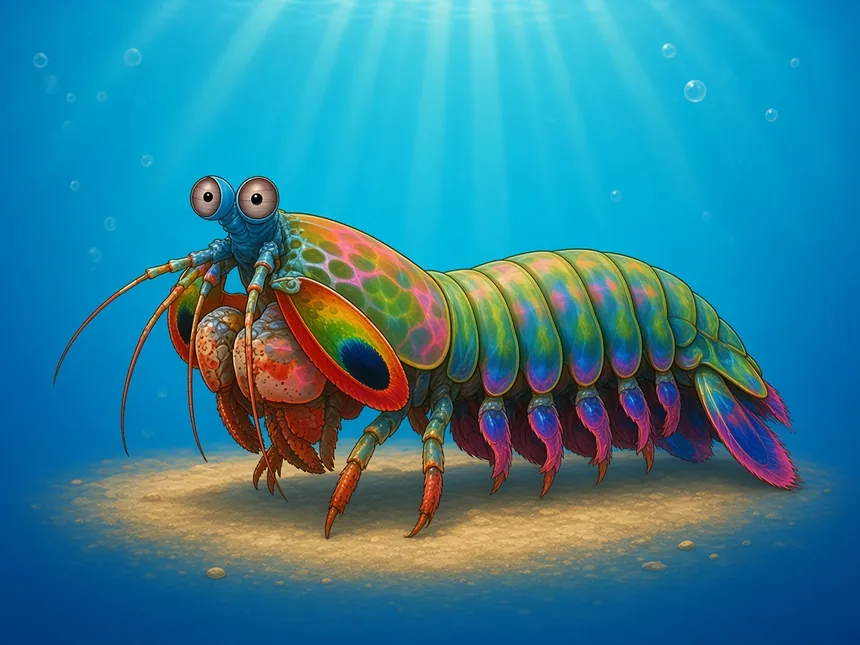
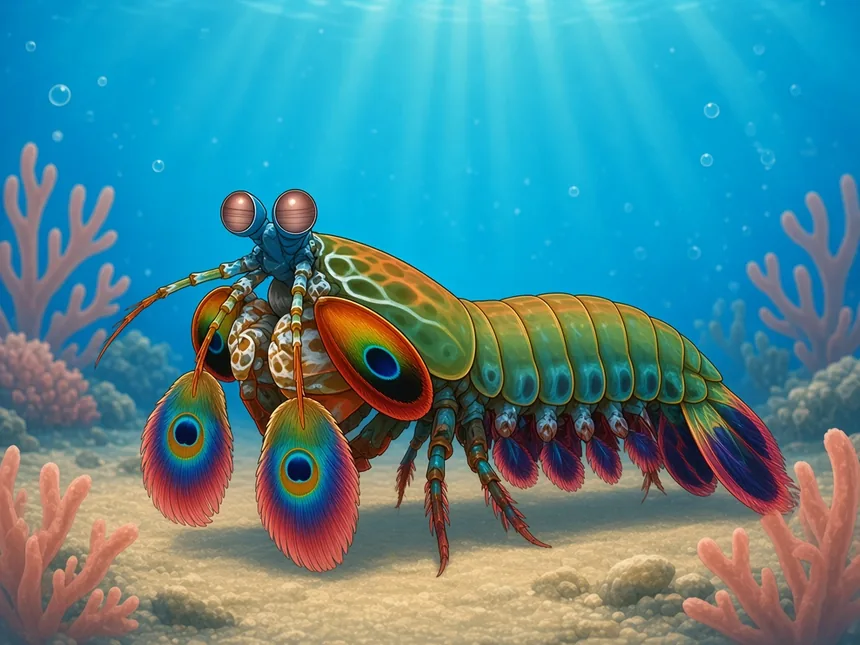
Fix orca/dolphin side orientation and differentiate shrimp anatomy (#10)
Put orca and dolphin back in left-facing side profile with edge-on
horizontal flukes. Regenerate the four shrimp so they differ by body
plan: slender tiny-claw cleaner, one-giant-claw pistol, stalked-eye
mantis smashers, and big banded-claw coral shrimp.

diff --git a/marine/ART_PROMPTS.md b/marine/ART_PROMPTS.md
@@ -34,10 +34,10 @@ flukes, never a vertical shark tail.
 - **ribbon-eel.webp** — An adult male ribbon eel ONLY: slender bright blue eel body with a vivid yellow dorsal fin ribbon and yellow leaf-like flared nostrils, open mouth, long ribbon-like undulating eel body tapering to a pointed finned tip, NO shark tail, facing left.
 - **garden-eel.webp** — A spotted garden eel ONLY emerging vertically from sandy seabed, skinny pale eel body with dark spots, tiny head and eyes peeking up, lower body in a sand burrow, NO shark fins or shark tail.
 - **snowflake-eel.webp** — A snowflake moray eel ONLY: white eel body covered in bold black snowflake blotches, blunt head, open mouth, serpentine eel body with continuous soft fin edge, NO shark caudal fin, facing left.
-- **cleaner-shrimp.webp** — An Ambon cleaner shrimp ONLY: crustacean with translucent body, bold red longitudinal stripes and white bands, long white antennae, slender walking legs, flattened shrimp tail fan (uropods) held horizontally behind the abdomen, NO shark fin, NO vertical shark tail.
-- **peacock-mantis.webp** — A peacock mantis shrimp ONLY: vivid rainbow crustacean carapace, large stalked eyes, folded smasher clubs, short segmented shrimp body ending in a flat horizontal tail fan, standing on sandy bottom facing left, NO shark fins or shark tail.
-- **pistol-shrimp.webp** — A bigclaw snapping shrimp ONLY: tan translucent shrimp crustacean, one enormously oversized snapping claw and one small claw, stalked eyes, segmented abdomen ending in a flat shrimp tail fan, NO shark fin, NO vertical shark tail, facing left.
-- **banded-coral-shrimp.webp** — A banded coral shrimp ONLY: red-and-white banded shrimp body and legs, very long white antennae, large claws, flat horizontal shrimp tail fan, among a hint of reef rock, NO shark fins or shark tail, facing left.
+- **cleaner-shrimp.webp** — An Ambon cleaner shrimp (Lysmata) facing left: SLENDER elongated shrimp body (not stocky), translucent with a bold red longitudinal stripe and white bands, VERY LONG thin white antennae sweeping forward longer than the body, only tiny delicate claws (no lobster pincers), thin walking legs, flat horizontal shrimp tail fan.
+- **peacock-mantis.webp** — A peacock mantis shrimp (stomatopod) facing left: UNIQUE body unlike clawed shrimp — elongated armored thorax, two huge independently stalked eyes, folded raptorial SMASHER clubs tucked under the head with peacock eyespot markings (not pinching claws), rainbow green-blue-orange-red carapace, feathery swimming legs, wide colorful flat tail fan, on sand.
+- **pistol-shrimp.webp** — A pistol/snapping shrimp facing left: stocky small shrimp whose KEY ID feature is ONE enormously oversized asymmetric snapping claw (nearly body-sized) and ONE tiny claw on the other side — clear claw asymmetry; short antennae, stalked eyes, tan speckled body, flat horizontal shrimp tail fan. Not a lobster with two equal claws.
+- **banded-coral-shrimp.webp** — A banded coral shrimp (Stenopus hispidus) facing left: delicate spindly shrimp with red-and-white banded body and walking legs, a pair of long slender banded claws held forward (thinner than lobster claws), extremely long thin white whip antennae often longer than the whole body, stalked eyes, flat shrimp tail fan, on reef rock.
 - **blue-starfish.webp** — A bright electric-blue Linckia sea star with five smooth rounded arms, top-down centered view on sandy reef floor, no fins.
 - **crown-of-thorns.webp** — A crown-of-thorns sea star with many arms covered in long sharp venomous spines, mottled grey-purple and green, top-down centered view, no fins.
 - **common-starfish.webp** — A common orange-brown five-armed sea star (Asterias), slightly rough texture, top-down centered view on sandy bottom, no fins.
@@ -72,8 +72,8 @@ flukes, never a vertical shark tail.
 - **stingray.webp** — A southern stingray ONLY: flat diamond-shaped sandy-brown disc, long thin whip-like tail with a spine, smooth disc edges, gliding just above sand facing left. NO upright shark dorsal fins on the disc, NO shark caudal fin.
 - **green-sea-turtle.webp** — A green sea turtle, smooth olive-brown shell, paddle flippers, gentle face, swimming facing left.
 - **leatherback.webp** — A leatherback sea turtle, dark rubbery shell with pale longitudinal ridges, huge front flippers, swimming facing left.
-- **bottlenose-dolphin.webp** — A common bottlenose dolphin from a three-quarter TOP / bird's-eye view swimming left: smooth grey body, curved dorsal fin as a centerline ridge, bottle-shaped snout, pectoral flippers out to the sides, and clearly HORIZONTAL crescent flukes spanning left-right at the rear (never a vertical shark tail). Top-down angle is required so the flukes read as sideways whale/dolphin flukes.
-- **orca.webp** — An orca (killer whale) from a three-quarter TOP / bird's-eye view swimming left: bold black-and-white pattern, tall dorsal fin as a centerline ridge, white eye patch, blunt rounded snout, pectoral flippers out to the sides, and clearly HORIZONTAL crescent flukes spanning left-right at the rear (never a vertical shark caudal fin). Top-down angle is required so the flukes read as sideways whale flukes.
+- **bottlenose-dolphin.webp** — A common bottlenose dolphin in LEFT-facing side profile (same orientation as the fish cards), body rolled ~30° toward the viewer so the HORIZONTAL flukes are visible as a wide flat paddle/wing behind the tail stock. Grey body, bottle snout, curved dorsal fin, pectoral flippers. Never a vertical shark caudal fin.
+- **orca.webp** — An orca (killer whale) in LEFT-facing side profile (same orientation as the fish cards), body rolled ~30° toward the viewer so the HORIZONTAL flukes are visible as a wide flat paddle/wing behind the tail stock. Bold black-and-white pattern, tall dorsal fin, white eye patch, blunt snout. Never a vertical shark caudal fin.
 - **sea-otter.webp** — A sea otter floating on its back facing left, thick brown fur, holding a shell on its belly, whiskered face, calm surface water.
 - **moon-jelly.webp** — A common moon jelly, translucent pale bell with four horseshoe-shaped markings in the center, short tentacles trailing, drifting centered, no fins.
 - **lions-mane.webp** — A lion's mane jellyfish, large reddish-orange bell with thick cascading tentacles and oral arms like a mane, drifting centered, no fins.
